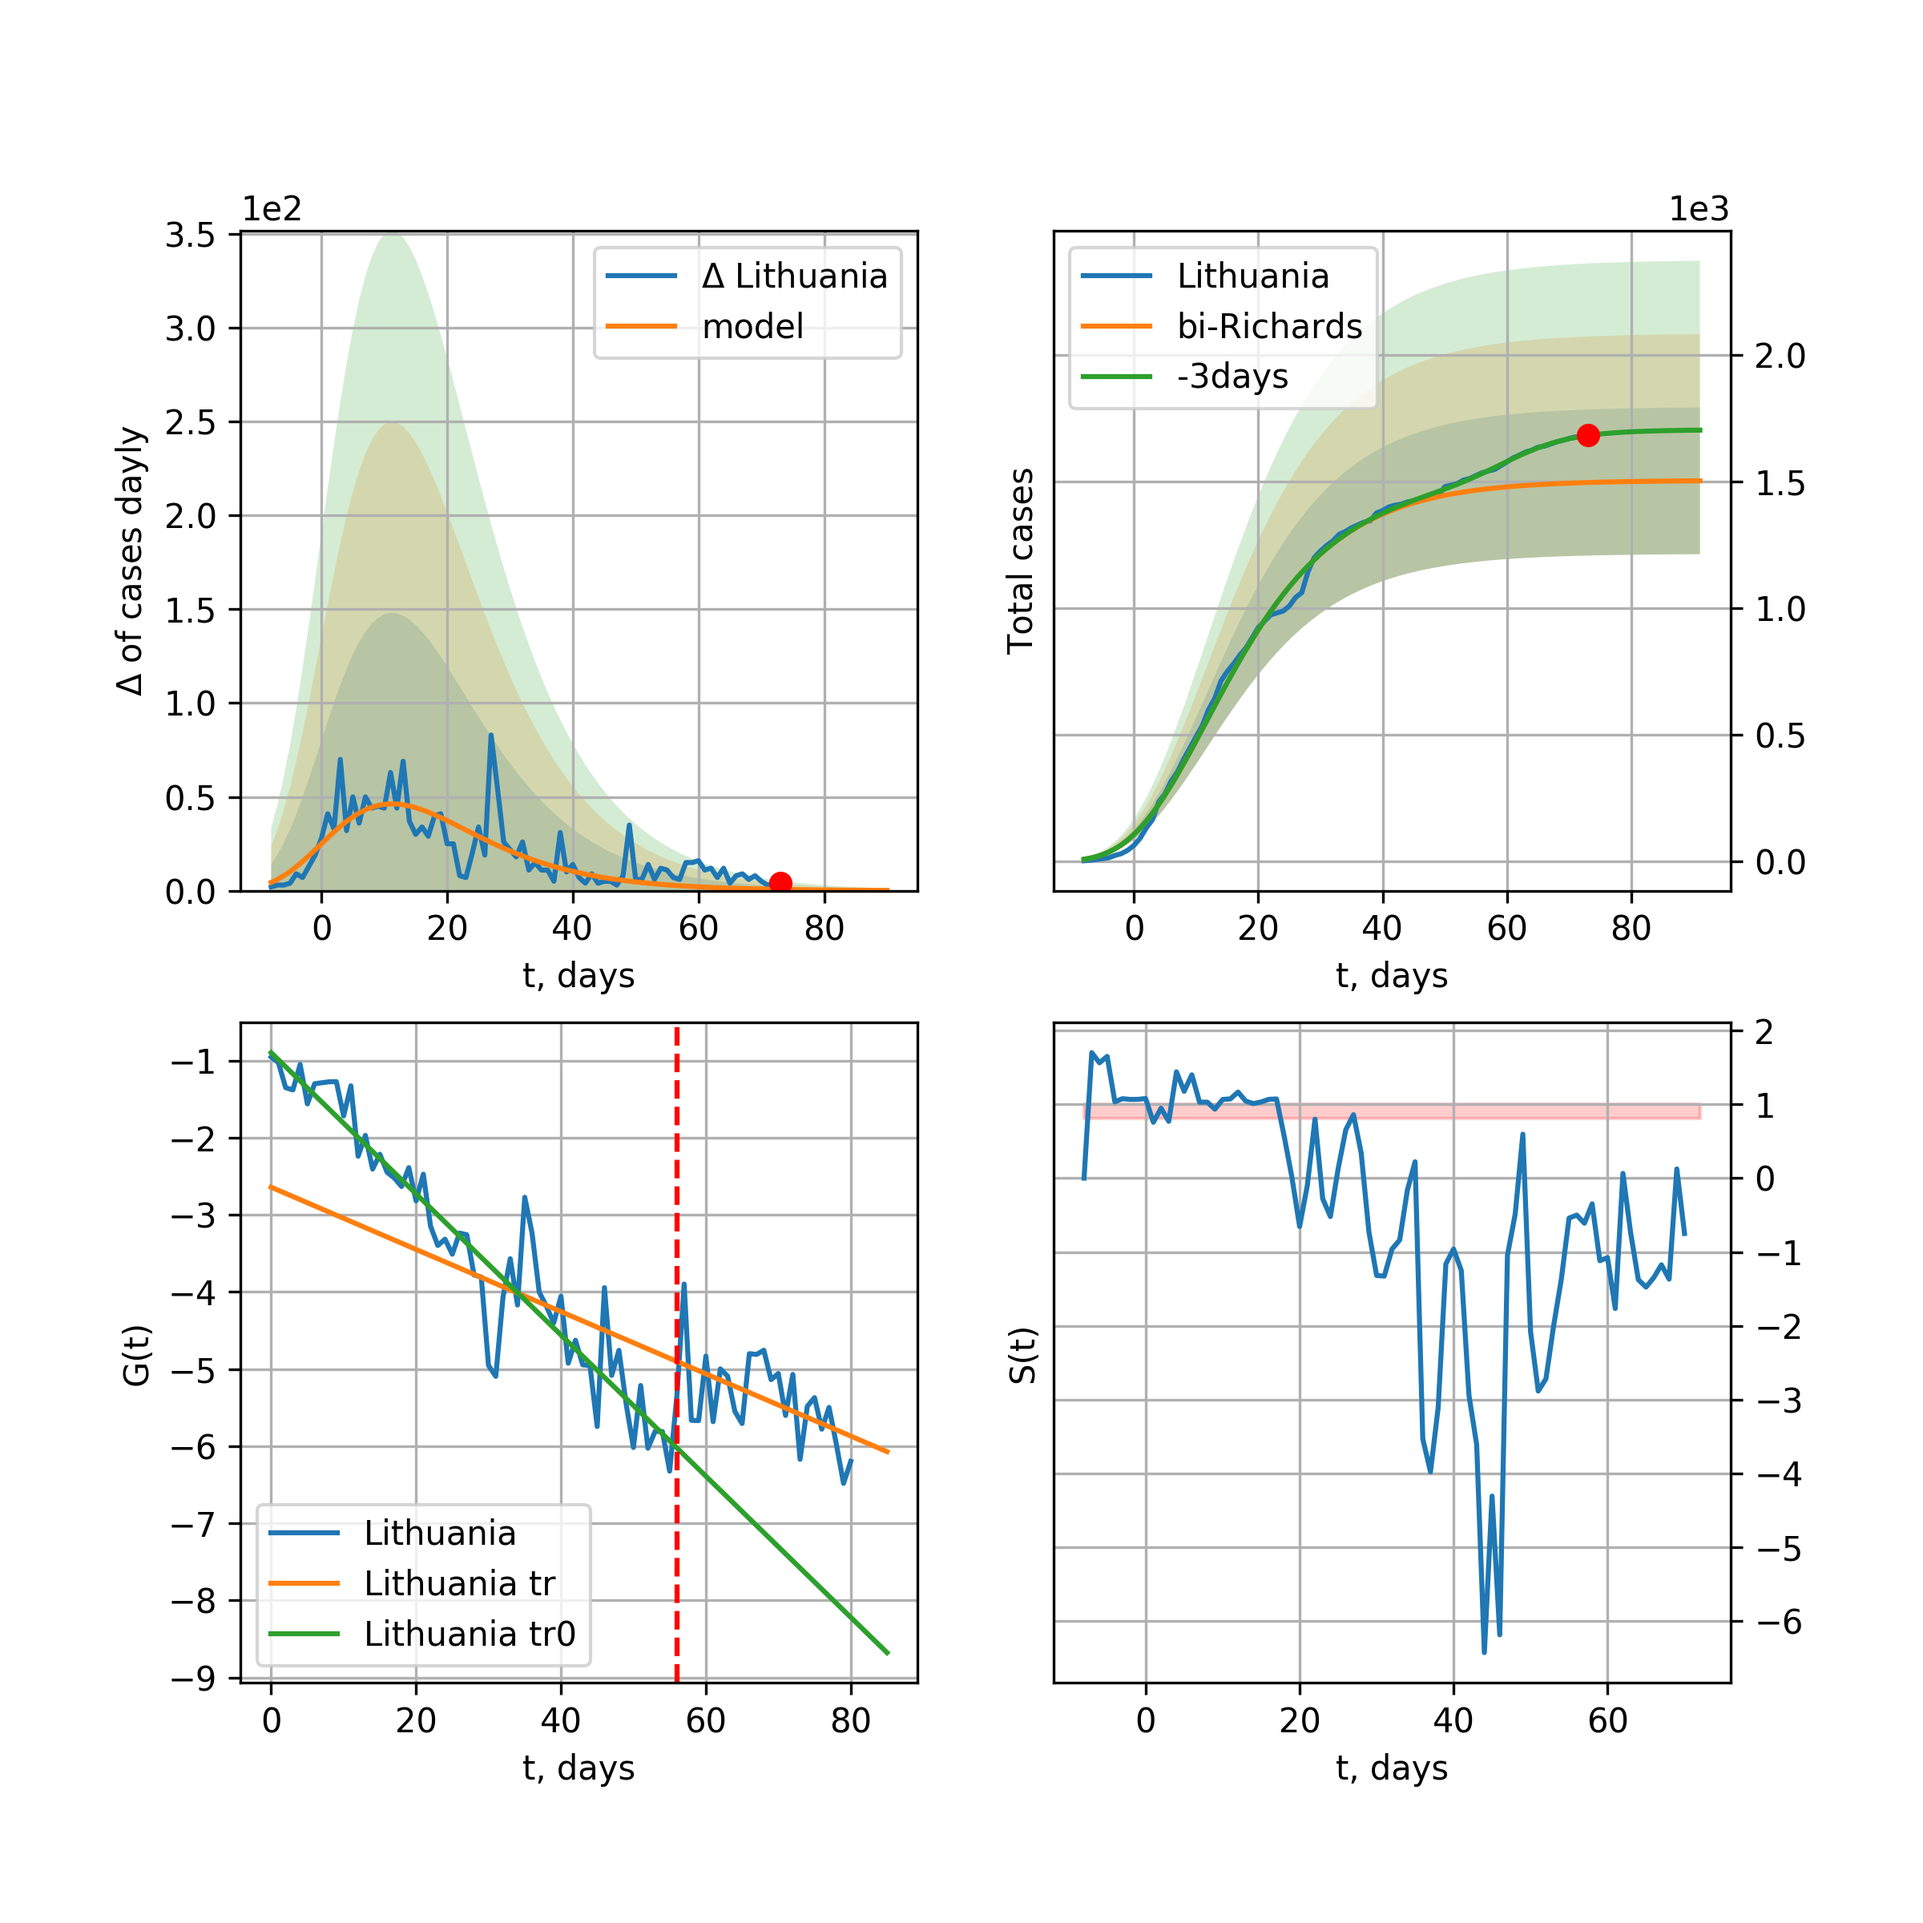
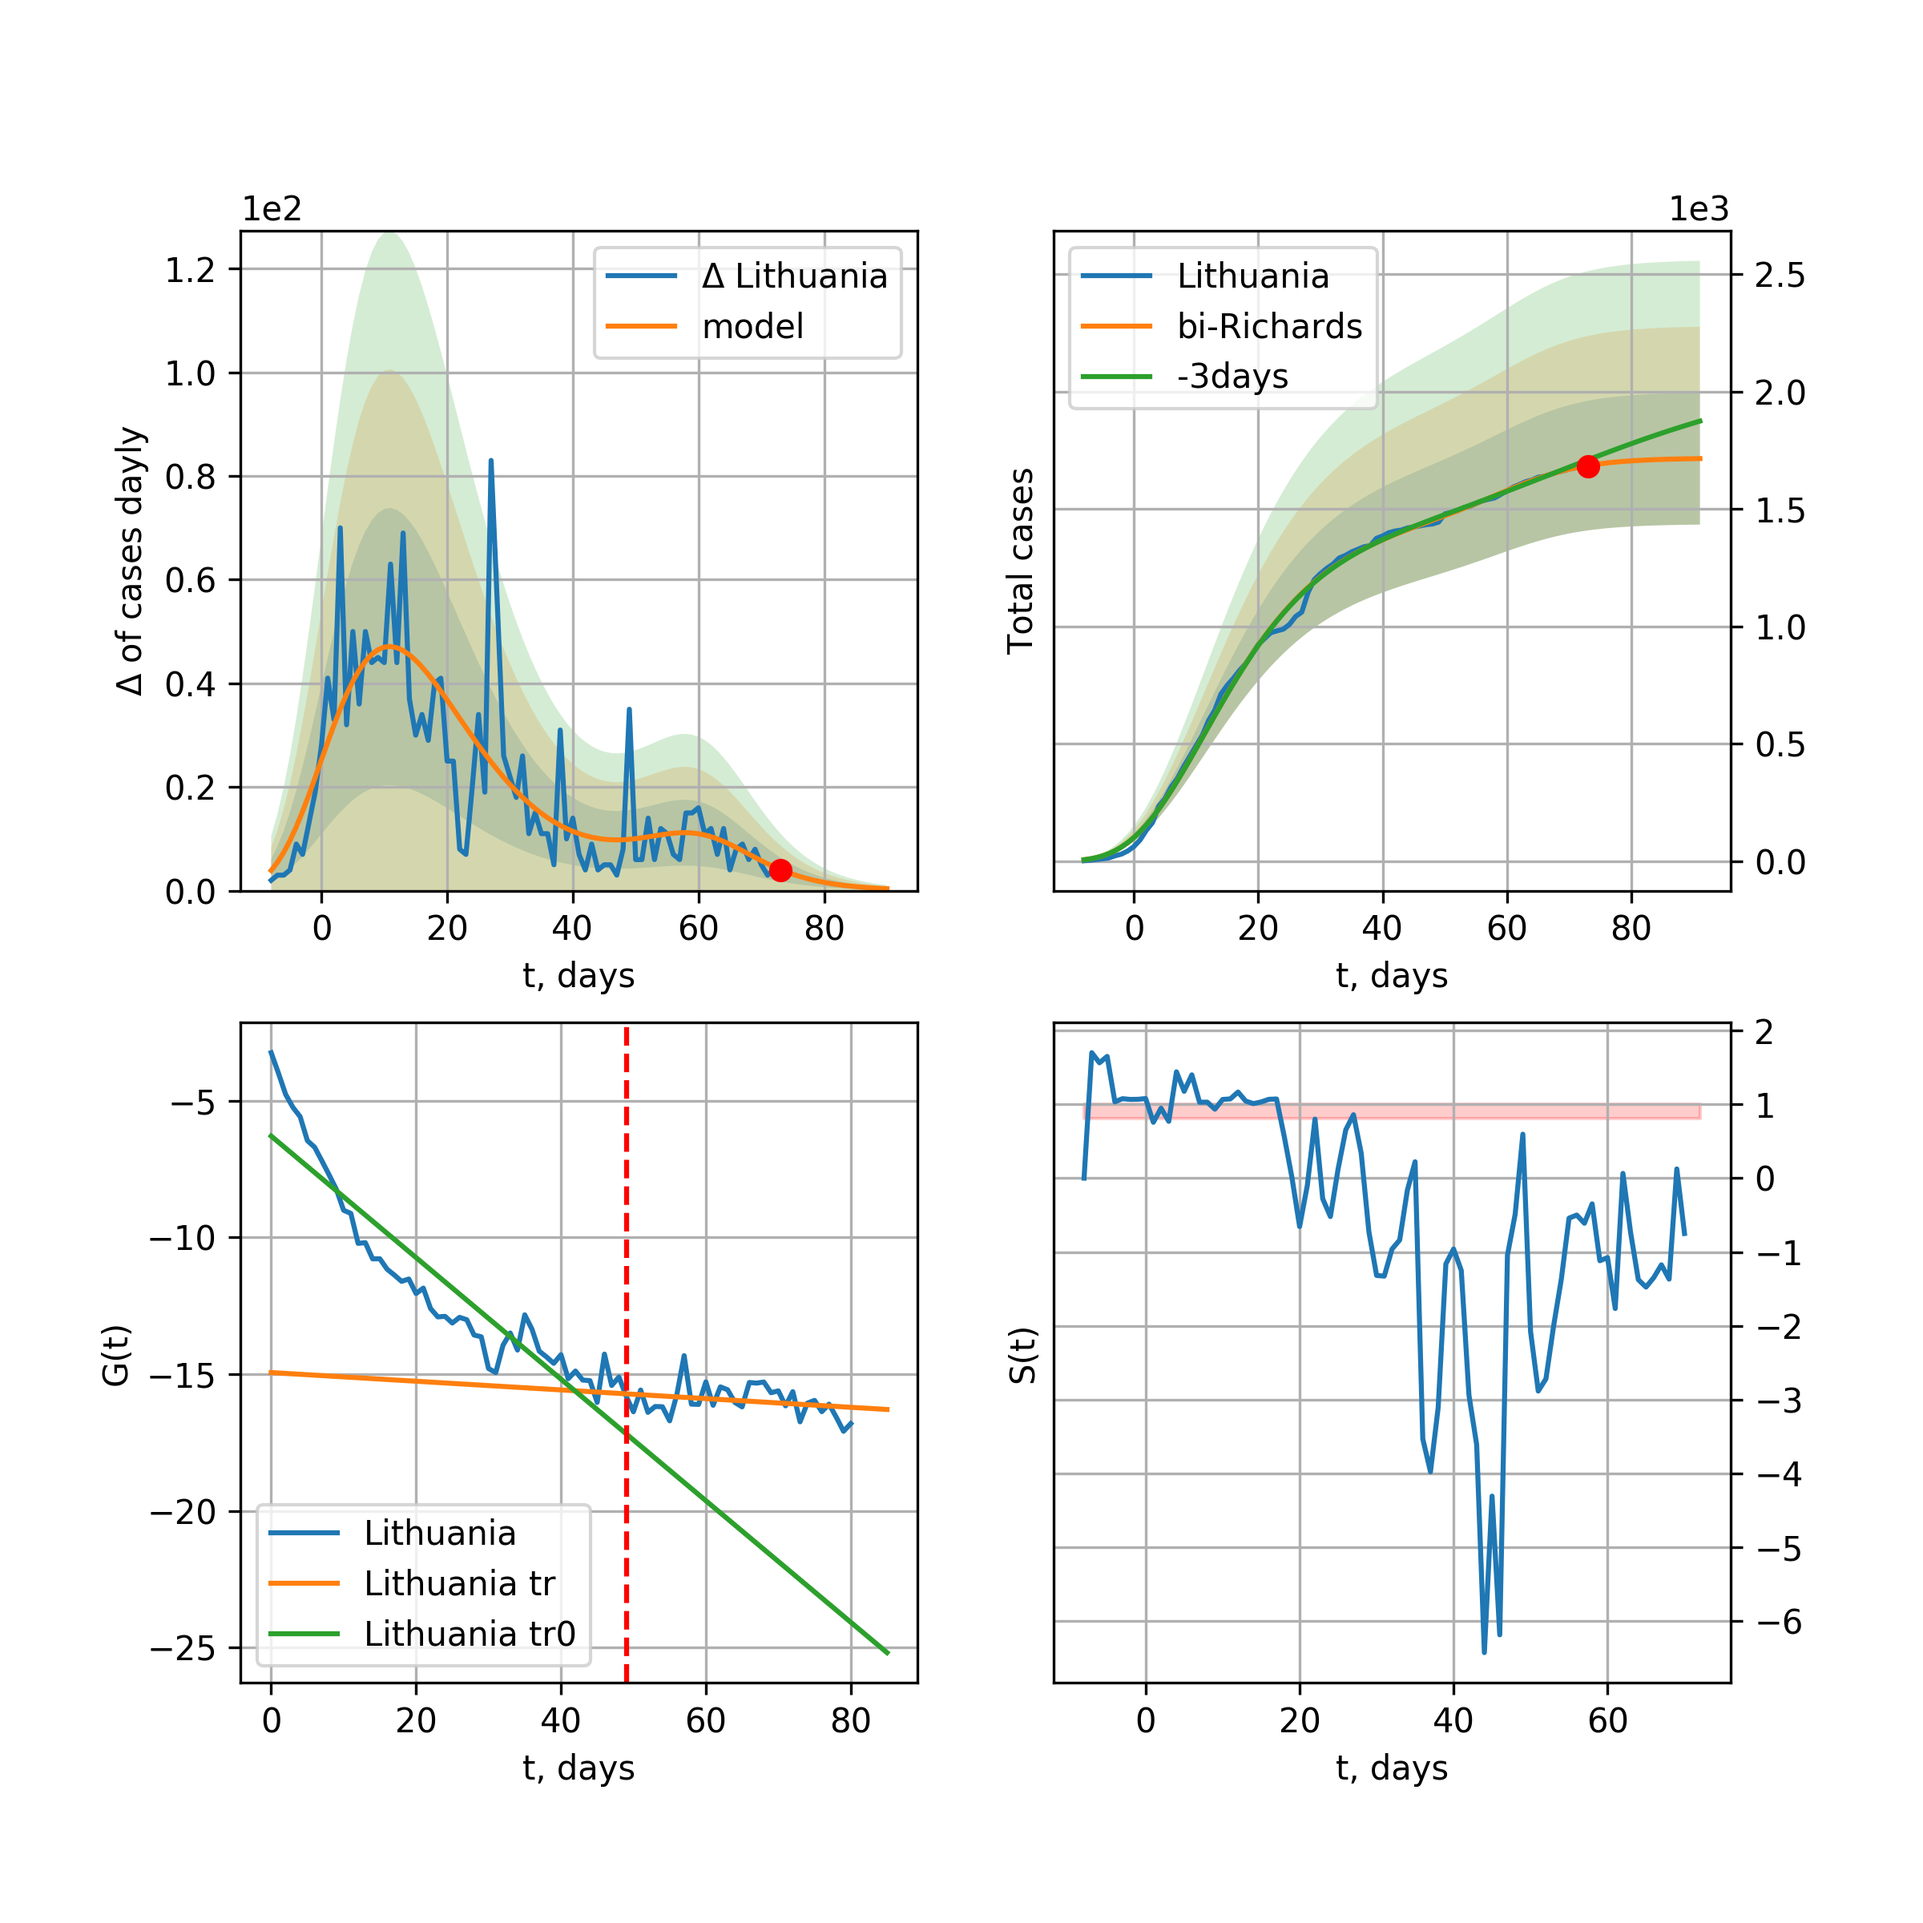
LT renew 2020-06-01

diff --git a/_site/index.html b/_site/index.html
@@ -1423,20 +1423,20 @@ trend coefficient of determination: 0.921309 <br />
     <img src="pictures/covidcasesLithuania36_R.png" alt="hi" class="inline"/><br /> 
 
       Lithuania data at: 2020-06-01<br />
-+3 day model MAPE: 0.111668<br />
++3 day model MAPE: 0.017678<br />
 model: bi-Richards<br />
-coeffs: [4.64810699e+02 7.63037444e-02 1.70562131e+01 2.09473559e-02]<br />
-rational stdev: 0.192684<br />
+coeffs: [2.55069291e+02 1.14497461e-01 6.22910131e+01 1.44983162e+00]<br />
+rational stdev: 0.163715<br />
 forecast at the end of period: +18 days<br />
 	 deltaDaycases: 0<br />
-	 total cases: 1502 ± 289<br />
-	 total death: 62 ± 35<br />
-bi-Richards approximation splitting point: 56<br />
-trend coefficient of determination: 0.912954 <br />
- intercept: -0.895448 <br />
- slope: -0.091557<br />trend coefficient of determination: 0.281437 <br />
- intercept: -2.640321 <br />
- slope: -0.040355<br />
+	 total cases: 1714 ± 280<br />
+	 total death: 71 ± 34<br />
+bi-Richards approximation splitting point: 49<br />
+trend coefficient of determination: 0.865250 <br />
+ intercept: -6.297832 <br />
+ slope: -0.222201<br />trend coefficient of determination: 0.070787 <br />
+ intercept: -14.944766 <br />
+ slope: -0.015881<br />
           <br /> 
     
     Latvia
